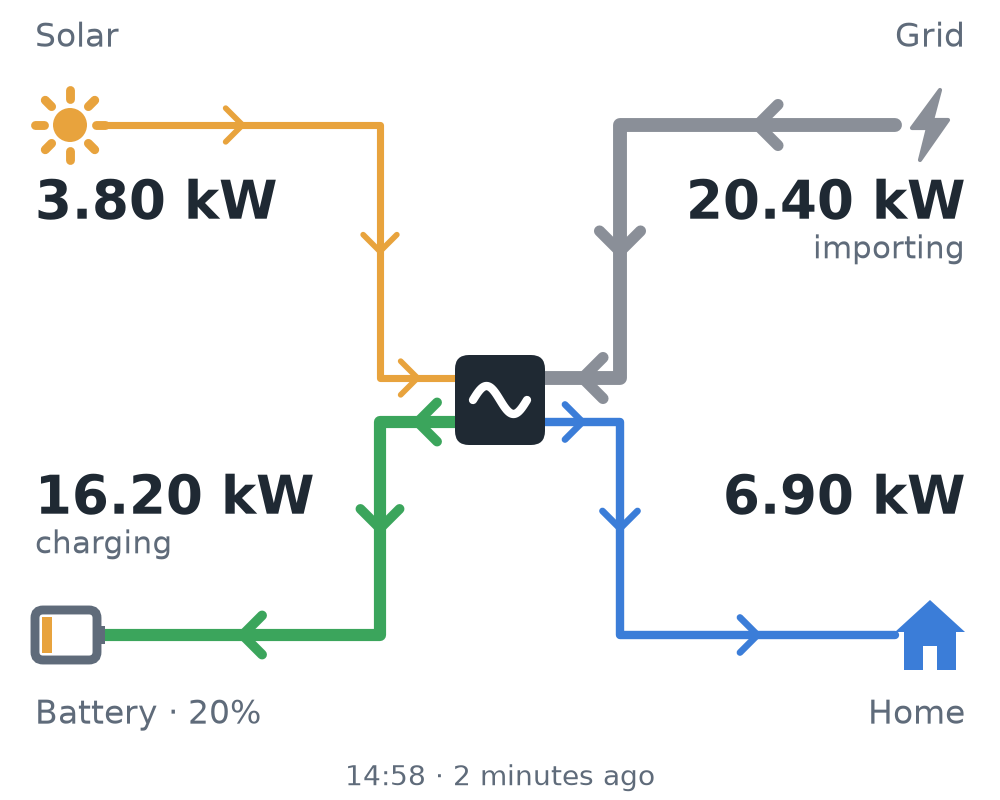
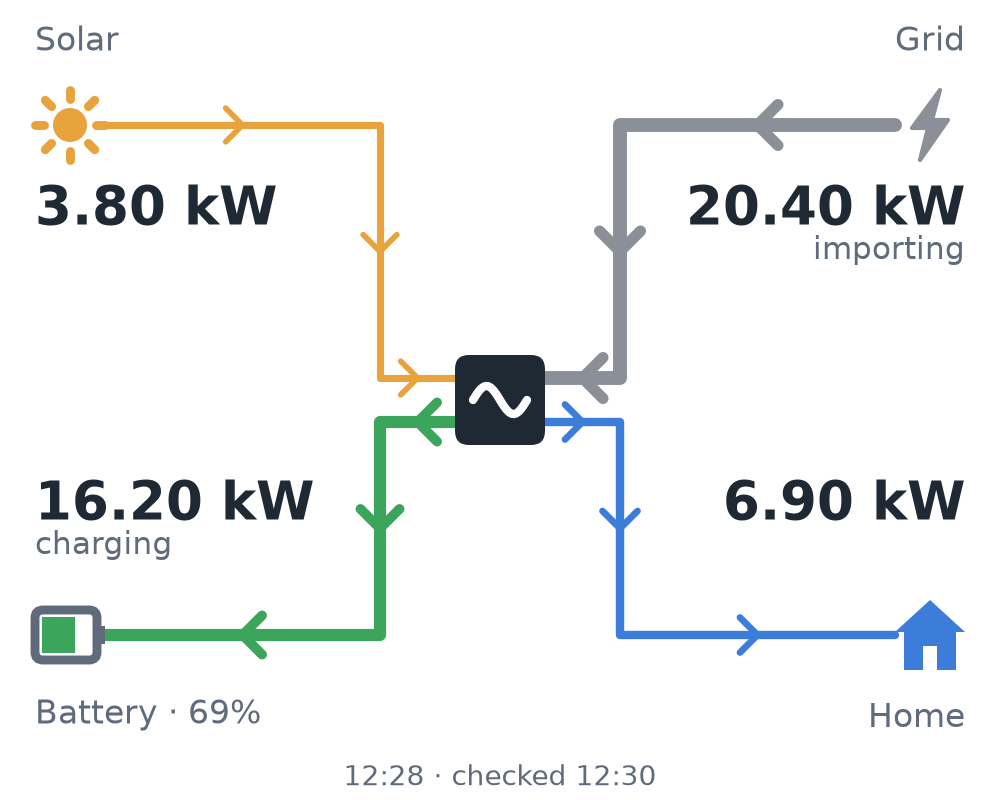
Docs: English-only README images, no bot handle
- scripts/render_docs_images.py regenerates docs/img (status, outage,
  24h graph, month) in English from synthetic data
- README: drop the t.me link and the hard-coded bot username

diff --git a/scripts/render_docs_images.py b/scripts/render_docs_images.py
@@ -1,0 +1,87 @@
+"""Regenerate the README images (English, synthetic data) into docs/img/.
+
+Run: env -u VIRTUAL_ENV uv run python scripts/render_docs_images.py
+"""
+
+import math
+import random
+from datetime import date, datetime, timedelta
+from pathlib import Path
+from zoneinfo import ZoneInfo
+
+from vydpobot.charts import render_chart, render_month_chart
+from vydpobot.flow import render_flow
+from vydpobot.models import BatteryState, DayStats, HistoryPoint, Snapshot
+from vydpobot.runtime import Runtime, _round_ends
+
+OUT = Path(__file__).resolve().parent.parent / "docs" / "img"
+TZ = ZoneInfo("Europe/Kyiv")
+LANG = "en"
+
+
+def status_flow(now: datetime) -> bytes:
+    # Daytime: grid charging the battery bank while the panels cover part of the load.
+    snap = Snapshot(
+        now - timedelta(minutes=2), 69.0, 3800.0, 6900.0, 20400.0, 16200.0, BatteryState.CHARGING
+    )
+    return render_flow(snap, lang=LANG, tz=TZ, now=now, checked_at=now)
+
+
+def outage_flow(now: datetime) -> bytes:
+    # Evening outage: battery covers the house; estimate runs down to the 10% shutdown level.
+    snap = Snapshot(
+        now - timedelta(minutes=1),
+        61.0,
+        0.0,
+        4550.0,
+        0.0,
+        -4550.0,
+        BatteryState.DISCHARGING,
+        grid_online=False,
+        grid_voltage_v=(0.0, 0.0, 0.0),
+    )
+    hours = (61 - 10) / 100 * 69 / 4.6
+    rt = Runtime(hours, _round_ends(now + timedelta(hours=hours)), 4.6, "window", False)
+    return render_flow(snap, lang=LANG, tz=TZ, now=now, checked_at=now, runtime=rt, grid_off=True)
+
+
+def graph_24h(now: datetime) -> bytes:
+    points, soc = [], 45.0
+    for i in range(24 * 12 + 1):
+        ts = now - timedelta(hours=24) + timedelta(minutes=5 * i)
+        hour = ts.astimezone(TZ).hour + ts.astimezone(TZ).minute / 60
+        pv = max(0.0, math.sin((hour - 6) / 14 * math.pi)) * 6000
+        load = 1200 + 600 * math.sin(hour / 24 * 2 * math.pi + 1)
+        grid = 300.0 if pv < load else 0.0
+        bat = pv + grid - load
+        soc = min(100.0, max(10.0, soc + bat / 1000 * 5 / 60 / 69 * 100))
+        points.append(HistoryPoint(ts, soc, pv, load, grid, bat))
+    return render_chart(points, tz=TZ, lang=LANG, hours=24, threshold=50, now=now)
+
+
+def month(now: datetime) -> bytes:
+    rnd = random.Random(3)
+    days = []
+    for d in range(1, now.day + 1):
+        pv, home = rnd.uniform(5, 25), rnd.uniform(20, 30)
+        days.append(DayStats(date(now.year, now.month, d), pv, home, max(0.0, home - pv * 0.8)))
+    return render_month_chart(days, year=now.year, month=now.month, tz=TZ, lang=LANG, now=now)
+
+
+def main() -> None:
+    OUT.mkdir(parents=True, exist_ok=True)
+    noon = datetime(2026, 10, 10, 12, 30, tzinfo=TZ)
+    evening = datetime(2026, 10, 10, 20, 0, tzinfo=TZ)
+    images = {
+        "status_flow.png": status_flow(noon),
+        "outage_flow.png": outage_flow(evening),
+        "graph_24h.png": graph_24h(evening),
+        "month.png": month(datetime(2026, 10, 20, 12, 0, tzinfo=TZ)),
+    }
+    for name, png in images.items():
+        (OUT / name).write_bytes(png)
+        print(OUT / name)
+
+
+if __name__ == "__main__":
+    main()

diff --git a/README.md b/README.md
@@ -1,12 +1,16 @@
 # vydpobot
 
-[@vydpo_bot](https://t.me/vydpo_bot) — Telegram bot for building vital stats. First module:
+Telegram bot for building vital stats. First module:
 monitors a Deye hybrid inverter (tested design target: three-phase LV
 SUN-xK-SG04LP3) through the Solarman Cloud OpenAPI. It runs in Docker on a small VPS.
 
 <p>
   <img src="docs/img/status_flow.png" width="48%" alt="/status power flow">
-  <img src="docs/img/graph_uk.png" width="48%" alt="/graph 24h chart (Ukrainian)">
+  <img src="docs/img/outage_flow.png" width="48%" alt="/status during a grid outage">
+</p>
+<p>
+  <img src="docs/img/graph_24h.png" width="48%" alt="/graph 24h chart">
+  <img src="docs/img/month.png" width="48%" alt="/month daily statistics">
 </p>
 
 ## Features
@@ -283,22 +287,22 @@ The free OpenAPI tier for Smart accounts allows at most 3 plants and 200 000 cal
 
 ## Telegram setup
 
-1. Open [@BotFather](https://t.me/BotFather), send `/newbot` and use the username `vydpo_bot`
-   (or `/mybots` -> `@vydpo_bot` -> *API Token* if it already exists). Copy the token into
+1. Open [@BotFather](https://t.me/BotFather), send `/newbot` and pick a name and username
+   (or `/mybots` -> your bot -> *API Token* if it already exists). Copy the token into
    `TELEGRAM_TOKEN`. The token alone identifies the bot; the username is not configured
    anywhere in the code.
 2. Open a chat with your new bot and press Start (a bot cannot message you first).
    To receive alerts in a group or channel, add the bot to it first; in a channel the bot
    must be an administrator (with permission to post messages).
 3. Optional: in BotFather, `/setprivacy` -> Disable if you want the bot to see all messages in
-   a group. Commands (`/status@vydpo_bot`) work in groups even with privacy mode enabled, so this
+   a group. Commands (`/status@your_bot`) work in groups even with privacy mode enabled, so this
    is usually not needed.
 
 ### Chat and user IDs
 
 - Your user ID: message [@userinfobot](https://t.me/userinfobot). For a private alert chat,
   `ALERT_CHAT_ID` is your user ID.
-- Group ID (easiest): start the bot, add it to the group and send `/status@vydpo_bot` there.
+- Group ID (easiest): start the bot, add it to the group and send `/status@your_bot` there.
   The bot ignores the unknown chat and logs
   `Ignored command from chat_id=-100… (supergroup 'Your group')`. Put that number in
   `ALERT_CHAT_ID` and restart. Group IDs are negative; supergroups look like `-100…`.
@@ -481,7 +485,7 @@ a caption. The bot edits it on every poll, so it never needs a new `/status`.
   status (see "Building equipment" below).
 
 **Permission.** To pin, the bot needs one right in the group: Edit -> Administrators -> Add
-Admin -> @vydpo_bot, and enable ONLY "Pin Messages". Without it the bot still keeps the message
+Admin -> your bot, and enable ONLY "Pin Messages". Without it the bot still keeps the message
 updated, just not pinned (it tells you so).
 
 **Notifications.** Edits are silent. Alerts stay separate notifying messages.
